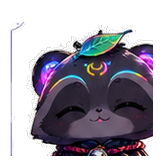
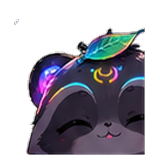
art: tighter 光丸 160px sheet; v0.4.19

diff --git a/index.html b/index.html
@@ -11,7 +11,7 @@
   <link rel="manifest" href="./manifest.json">
   <title>相棒あそび · BushiDAO</title>
   <meta name="description" content="BOの相棒と走る。入場・参加無料。">
-  <link rel="stylesheet" href="styles.css?v=0.4.18">
+  <link rel="stylesheet" href="styles.css?v=0.4.19">
 </head>
 <body>
   <div id="app">
@@ -139,6 +139,6 @@
     </section>
   </div>
   <script src="vendor/phaser.min.js"></script>
-  <script src="app.js?v=0.4.18"></script>
+  <script src="app.js?v=0.4.19"></script>
 </body>
 </html>

diff --git a/app.js b/app.js
@@ -1,4 +1,4 @@
-const VERSION = "0.4.18";
+const VERSION = "0.4.19";
 const NEON = [0xff3d8a, 0x39f0ff, 0xc8ff3a, 0xff9a3a, 0xb44dff];
 const SHEETS = {
   sumi: "art/sumi/sheet.png",
